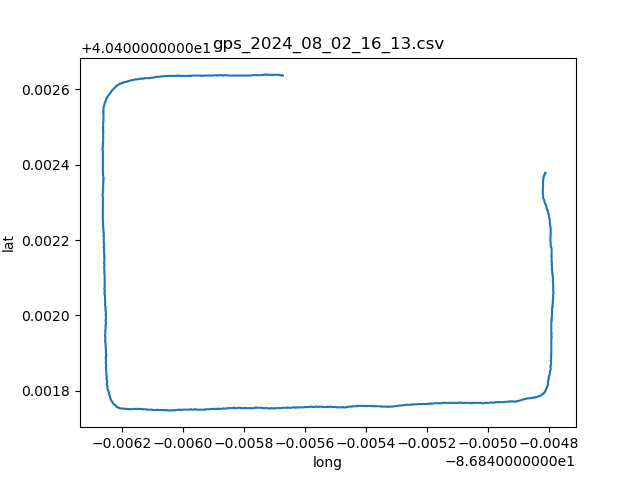
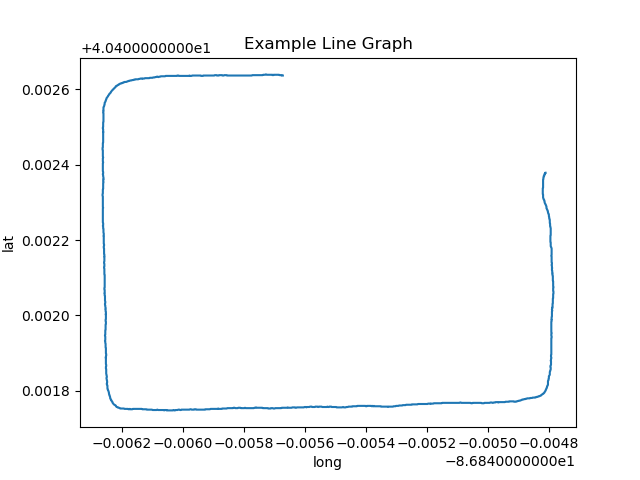
Updated documentation to include title feature.

Changed region(s): [[0.3438, 0.0625, 0.6875, 0.125]]

diff --git a/shared_scripts/simple_csv_grapher/README.md b/shared_scripts/simple_csv_grapher/README.md
@@ -18,28 +18,28 @@ This script can be run in two distinct manners. If you want to grap data for a s
 ### Command line
 This method allows the user to plot and save a png for based on a specified csv file. It only support one file at a time. 
 ```bash
-usage: CSV Graphing [-h] [-f FILE] [-p PATH]
-                    [-c COLUMN_NAMES [COLUMN_NAMES ...]] [-g GRAPH_TYPE]
-                    [-y YAML] [-s]
+usage: CSV Graphing [-h] [-f FILE] [-p PATH] [-c COLUMN_NAMES [COLUMN_NAMES ...]] [-g GRAPH_TYPE] [-t TITLE] [-s] [-y YAML]
 
 Simple program that graphs csv data.
 
 options:
   -h, --help            show this help message and exit
   -f FILE, --file FILE  Choose file
-  -p PATH, --path PATH  Path to file
+  -p PATH, --path PATH  Path to file (leave blank if in log directory)
   -c COLUMN_NAMES [COLUMN_NAMES ...], --column-names COLUMN_NAMES [COLUMN_NAMES ...]
                         Give desired column headers.
   -g GRAPH_TYPE, --graph-type GRAPH_TYPE
                         Choose one of the following ["line", "scatter"]
-  -y YAML, --yaml YAML  Generate graph via yaml file
+  -t TITLE, --title TITLE
+                        Provide title for generated graph
   -s, --save            Save file based on csv file.
+  -y YAML, --yaml YAML  Generate graph via yaml file
 ```
 Go to ``` python3 CsvGrapher_v2.py - h``` for up to date descriptions on how to use the command line. 
 
 An example of how to use the command line below.
 ```bash
-$ python3 CsvGrapher_v2.py -p "path/to/file" -f filename.csv -c header_1 header_2 -s
+$ python3 CsvGrapher_v2.py -p "path/to/file" -f filename.csv -c header_1 header_2 -g "line" -t "Example Line Graph" -s
 ```
 ### YAML Config File
 If you want to use multiple csv files the yaml configuration method is the best option. As long as the yaml file is at the same level as this script you can run the ```-y``` to run the configuration of a yaml file. The following fields are used when writing a yaml file
